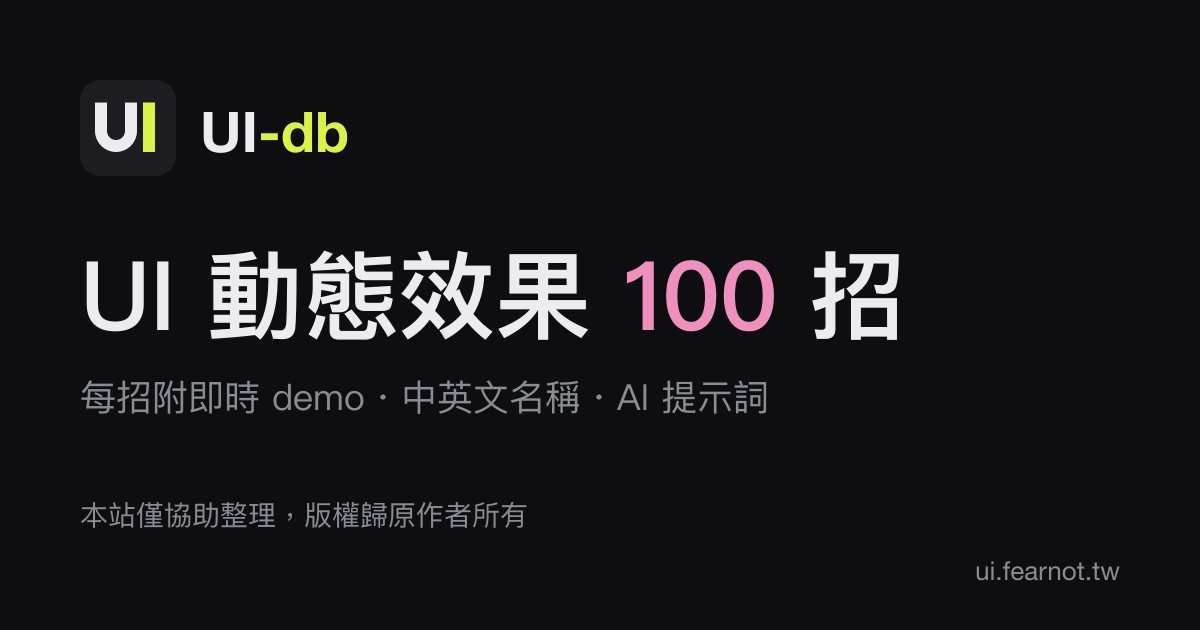
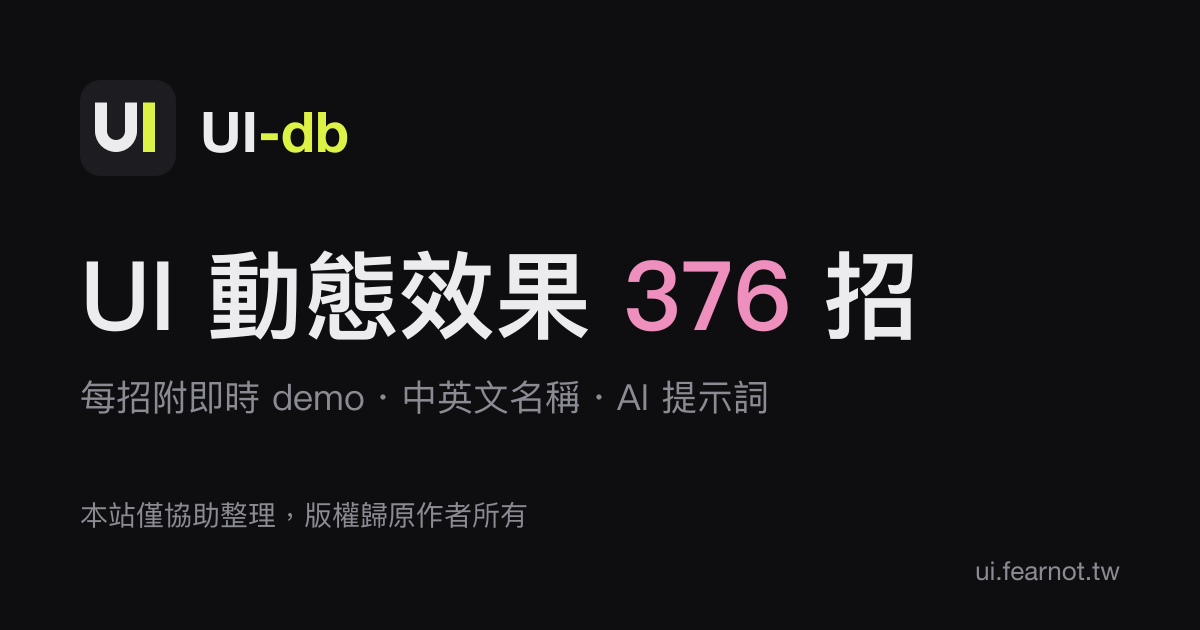
Browse by effect type instead of by source
Unified taxonomy (11 types, 7 timings) across all collections, merging
same-name effects into the self-made demo with a link to the Motion
Library version. Adds an optional Cloudflare Pages deploy script.

Changed region(s): [[0.5242, 0.3921, 0.7708, 0.5429]]

diff --git a/src/main.js b/src/main.js
@@ -1,5 +1,5 @@
 import './styles/app.css'
-import { items, collections, categories, collectionById } from './data/index.js'
+import { items, collections, types, timings, collectionById } from './data/index.js'
 import { mountDemo } from './demos/index.js'
 
 const FAV_KEY = 'ui-db:favs'
@@ -11,7 +11,7 @@ const saveFavs = () => {
 }
 
 const state = {
-  view: 'all', // 'all' | 'favs' | collection id
+  view: 'all', // 'all' | 'favs' | 'type:<id>' | collection id
   group: 'all',
   q: '',
   favs: loadFavs(),
@@ -38,7 +38,7 @@ $('#app').innerHTML = `
       <p>我的 UI 效果與工具資料庫</p>
     </div>
     <nav class="nav" id="nav"></nav>
-    <div class="side-foot">${items.length} 筆收藏 · ${collections.length} 個收藏集<br />本站僅協助整理，版權歸原作者所有</div>
+    <div class="side-foot">${items.length} 招 · ${types.length} 類 · ${collections.length} 個來源<br />本站僅協助整理，版權歸原作者所有</div>
   </aside>
   <main class="main">
     <header class="top">
@@ -77,50 +77,56 @@ const stopAll = () => {
 const itemById = Object.fromEntries(items.map((it) => [it.id, it]))
 
 // ── Render ───────────────────────────────────
+const typeOf = (view) => types.find((t) => `type:${t.id}` === view)
+
 function renderNav() {
-  const count = (fn) => items.filter(fn).length
   const navItem = (view, label, n, sub = '') =>
     `<button class="nav-item ${state.view === view ? 'on' : ''}" data-view="${view}"><span>${label}${sub ? `<small>${sub}</small>` : ''}</span><em>${n}</em></button>`
-  let html = navItem('all', '全部', items.length) + navItem('favs', '★ 我的最愛', state.favs.size)
-  for (const cat of categories) {
-    html += `<div class="nav-cat">${cat.label} <span>${cat.en}</span></div>`
-    for (const c of collections.filter((c) => c.category === cat.id))
-      html += navItem(c.id, c.title, count((it) => it.collection === c.id), c.author)
-  }
-  html += `<div class="nav-cat soon">更多分類 <span>coming soon</span></div>`
+  let html = navItem('all', '總覽', items.length) + navItem('favs', '★ 我的最愛', state.favs.size)
+  html += '<div class="nav-cat">類型 <span>Types</span></div>'
+  for (const t of types) html += navItem(`type:${t.id}`, t.label, items.filter((it) => it.type === t.id).length)
+  html += '<div class="nav-cat">來源 <span>Sources</span></div>'
+  for (const c of collections) html += navItem(c.id, c.title, items.filter((it) => it.collection === c.id).length)
   $('#nav').innerHTML = html
-}
-
-function currentCollection() {
-  return collectionById[state.view] || (state.view === 'all' && collections.length === 1 ? collections[0] : null)
 }
 
 function renderHeader() {
   const c = collectionById[state.view]
+  const type = typeOf(state.view)
   if (c) {
     $('#titleArea').innerHTML = `
       <div class="eyebrow">${esc(c.en)} · 收藏於 ${c.savedAt}</div>
       <h1>${esc(c.title)}</h1>
       <p class="note">${esc(c.note)} ${c.external ? `<a href="${c.source}" target="_blank" rel="noopener">來源 ${esc(c.author)} ${icons.link}</a>` : ''}</p>`
+  } else if (type) {
+    $('#titleArea').innerHTML = `<div class="eyebrow">${type.en}</div><h1>${type.label}</h1>
+      <p class="note">用時機篩選，找到這個情境能用的效果</p>`
   } else {
-    const label = state.view === 'favs' ? '我的最愛' : '全部收藏'
-    $('#titleArea').innerHTML = `<div class="eyebrow">UI-db · dashboard / database</div><h1>${label}</h1>
-      <p class="note">${state.view === 'favs' ? '點卡片上的 ★ 加入最愛' : '點任一張卡片看大圖與可直接貼給 AI 的提示詞'}</p>`
+    const favs = state.view === 'favs'
+    $('#titleArea').innerHTML = `<div class="eyebrow">UI-db · dashboard / database</div><h1>${favs ? '我的最愛' : '總覽'}</h1>
+      <p class="note">${favs ? '點卡片上的 ★ 加入最愛' : `${items.length} 招，分成 ${types.length} 類。點任一張卡片看大圖與提示詞`}</p>`
   }
-  const col = currentCollection()
-  const groups = col?.groups || []
-  $('#chips').innerHTML = groups.length
-    ? [`<button class="chip ${state.group === 'all' ? 'on' : ''}" data-group="all">全部</button>`,
-        ...groups.map((g) => `<button class="chip ${state.group === g.id ? 'on' : ''}" data-group="${g.id}" data-g="${g.id}"><b>${g.label}</b> ${g.zh}<small>${g.range}</small></button>`)].join('')
-    : ''
+  const chip = (id, html, attrs = '') => `<button class="chip ${state.group === id ? 'on' : ''}" data-group="${id}" ${attrs}>${html}</button>`
+  if (type) {
+    const inType = items.filter((it) => it.type === type.id)
+    $('#chips').innerHTML = chip('all', '全部') + timings
+      .map((t) => [t, inType.filter((it) => it.timing === t).length])
+      .filter(([, n]) => n)
+      .map(([t, n]) => chip(t, `${t}<small>${n}</small>`))
+      .join('')
+  } else {
+    $('#chips').innerHTML = c ? chip('all', '全部') + c.groups.map((g) => chip(g.id, `<b>${g.label}</b> ${g.zh}${g.range ? `<small>${g.range}</small>` : ''}`, `data-g="${g.id}"`)).join('') : ''
+  }
 }
 
 function filtered() {
   const q = state.q.trim().toLowerCase()
+  const type = typeOf(state.view)
   return items.filter((it) => {
     if (state.view === 'favs' && !state.favs.has(it.id)) return false
     if (collectionById[state.view] && it.collection !== state.view) return false
-    if (state.group !== 'all' && it.group !== state.group) return false
+    if (type && it.type !== type.id) return false
+    if (state.group !== 'all' && (type ? it.timing : it.group) !== state.group) return false
     if (!q) return true
     return [it.zh, it.en, it.desc, it.prompt, ...it.tags, pad(it.no)].join(' ').toLowerCase().includes(q)
   })
@@ -130,9 +136,7 @@ function renderGrid() {
   stopAll()
   const list = filtered()
   $('#empty').hidden = list.length > 0
-  $('#grid').innerHTML = list
-    .map(
-      (it) => `
+  const card = (it) => `
     <article class="card" data-id="${it.id}" data-g="${it.group}" tabindex="0">
       <div class="stage" data-id="${it.id}"></div>
       <span class="en-tag">${esc(it.en)}</span>
@@ -146,8 +150,13 @@ function renderGrid() {
         </div>
       </div>
     </article>`
-    )
-    .join('')
+  // 總覽：每類只放前 6 招，其餘點進該類看
+  $('#grid').innerHTML = state.view === 'all' && !state.q.trim()
+    ? types.map((t) => {
+        const inType = list.filter((it) => it.type === t.id)
+        return `<button class="sec" data-view="type:${t.id}"><b>${t.label}</b><small>${inType.length} 招</small><span>查看全部 →</span></button>${inType.slice(0, 6).map(card).join('')}`
+      }).join('')
+    : list.map(card).join('')
   document.querySelectorAll('#grid .stage').forEach((s) => io.observe(s))
 }
 
@@ -184,6 +193,7 @@ function openModal(id) {
           </div>
         </div>
         ${c.external ? `<a class="src" href="${it.url || c.source}" target="_blank" rel="noopener">來源：${esc(c.author)} ${icons.link}</a>` : ''}
+        ${it.related ? `<a class="src" href="${it.related}" target="_blank" rel="noopener">Motion Library 的版本與提示詞 ${icons.link}</a>` : ''}
       </div>
     </div>`
   m.hidden = false

diff --git a/src/data/collections.js b/src/data/collections.js
@@ -1,20 +1,9 @@
 // 收藏集（Collection）：每一個來源 / 主題一組。
-// 新增收藏集時，在這裡加一筆，再到 items/ 建立對應的項目檔。
-
-export const categories = [
-  { id: 'text-motion', label: '文字動態', en: 'Text Motion' },
-  { id: 'micro', label: '按鈕與微互動', en: 'Micro-interactions' },
-  { id: 'loading', label: '載入動畫', en: 'Loading' },
-  { id: 'background', label: '背景效果', en: 'Backgrounds' },
-  { id: 'scroll', label: '捲動效果', en: 'Scroll Effects' },
-  { id: 'motion-picks', label: '動態精選', en: 'Motion Picks' },
-  { id: 'motion-library', label: 'Motion Library', en: '331 招' },
-]
+// 新增收藏集時，在這裡加一筆，再到 items/ 建立對應的項目檔；每招的類型由 taxonomy.js 決定。
 
 export const collections = [
   {
     id: 'text-motion-40',
-    category: 'text-motion',
     title: '文字動態 40 招',
     en: 'Text Motion 40',
     author: '@ai_tjb',
@@ -32,7 +21,6 @@ export const collections = [
   },
   {
     id: 'micro-12',
-    category: 'micro',
     title: '按鈕與微互動 12 招',
     en: 'Micro-interactions 12',
     author: 'UI-db',
@@ -46,7 +34,6 @@ export const collections = [
   },
   {
     id: 'loading-12',
-    category: 'loading',
     title: '載入動畫 12 招',
     en: 'Loading 12',
     author: 'UI-db',
@@ -60,7 +47,6 @@ export const collections = [
   },
   {
     id: 'background-12',
-    category: 'background',
     title: '背景效果 12 招',
     en: 'Backgrounds 12',
     author: 'UI-db',
@@ -74,7 +60,6 @@ export const collections = [
   },
   {
     id: 'scroll-12',
-    category: 'scroll',
     title: '捲動效果 12 招',
     en: 'Scroll Effects 12',
     author: 'UI-db',
@@ -88,7 +73,6 @@ export const collections = [
   },
   {
     id: 'motion-picks',
-    category: 'motion-picks',
     title: '動態精選 12 招',
     en: 'Motion Picks 12',
     author: 'Motion Library（Hannah @kittenjamc）',
@@ -103,25 +87,24 @@ export const collections = [
   },
   {
     id: 'motion-library',
-    category: 'motion-library',
-    title: 'Motion Library 331 招',
+    title: 'Motion Library',
     en: 'Motion Library',
     author: 'Hannah @kittenjamc',
     external: true,
     noindex: true,
     source: 'https://kittenjam-motion-library.vercel.app',
     savedAt: '2026-11-02',
-    note: '原站的索引：預覽嵌入自原站，描述與 AI 提示詞請點來源到原站查看。版權歸原作者所有。',
+    note: '原站 331 招的索引，與 UI-db 同名的效果已合併。預覽嵌入自原站，描述與 AI 提示詞請到原站查看。版權歸原作者所有。',
     groups: [
-      { id: 'ml-text', label: 'TEXT', zh: '文字', range: '106' },
-      { id: 'ml-button', label: 'BUTTON', zh: '按鈕', range: '21' },
-      { id: 'ml-form', label: 'FORM', zh: '表單・控制項', range: '17' },
-      { id: 'ml-card', label: 'CARD', zh: '卡片・群組', range: '41' },
-      { id: 'ml-media', label: 'MEDIA', zh: '圖片・媒體', range: '22' },
-      { id: 'ml-svg', label: 'SVG', zh: '圖形・SVG', range: '35' },
-      { id: 'ml-bg', label: 'BG', zh: '背景・氛圍', range: '36' },
-      { id: 'ml-layout', label: 'LAYOUT', zh: '版面・頁面', range: '37' },
-      { id: 'ml-cursor', label: 'CURSOR', zh: '游標', range: '16' },
+      { id: 'ml-text', label: 'TEXT', zh: '文字' },
+      { id: 'ml-button', label: 'BUTTON', zh: '按鈕' },
+      { id: 'ml-form', label: 'FORM', zh: '表單・控制項' },
+      { id: 'ml-card', label: 'CARD', zh: '卡片・群組' },
+      { id: 'ml-media', label: 'MEDIA', zh: '圖片・媒體' },
+      { id: 'ml-svg', label: 'SVG', zh: '圖形・SVG' },
+      { id: 'ml-bg', label: 'BG', zh: '背景・氛圍' },
+      { id: 'ml-layout', label: 'LAYOUT', zh: '版面・頁面' },
+      { id: 'ml-cursor', label: 'CURSOR', zh: '游標' },
     ],
   },
 ]

diff --git a/src/data/taxonomy.js b/src/data/taxonomy.js
@@ -1,0 +1,46 @@
+// 統一分類：不管來源，每招都歸到一個類型與時機
+export const types = [
+  { id: 'text', label: '文字', en: 'Text' },
+  { id: 'button', label: '按鈕', en: 'Buttons' },
+  { id: 'form', label: '表單・控制項', en: 'Forms' },
+  { id: 'card', label: '卡片・群組', en: 'Cards' },
+  { id: 'media', label: '圖片・媒體', en: 'Media' },
+  { id: 'svg', label: '圖形・SVG', en: 'Graphics' },
+  { id: 'bg', label: '背景・氛圍', en: 'Backgrounds' },
+  { id: 'layout', label: '版面・頁面', en: 'Layout' },
+  { id: 'scroll', label: '捲動', en: 'Scroll' },
+  { id: 'cursor', label: '游標', en: 'Cursor' },
+  { id: 'loading', label: '載入', en: 'Loading' },
+]
+
+export const timings = ['進場', '退場', '切換', '循環待機', '懸停・點擊', '捲動觸發', '拖曳手勢']
+
+const SCROLL = '捲動觸發'
+const byGroup = {
+  impact: ['text', '進場'], flow: ['text', '循環待機'], depth: ['text', '循環待機'], switch: ['text', '切換'], style: ['text', '循環待機'],
+  button: ['button', '懸停・點擊'], feedback: ['form', '懸停・點擊'],
+  spinner: ['loading', '循環待機'], placeholder: ['loading', '循環待機'],
+  gradient: ['bg', '循環待機'], pattern: ['bg', '循環待機'],
+  trigger: ['scroll', SCROLL], linked: ['scroll', SCROLL],
+  'mp-visual': ['svg', '循環待機'], 'mp-ui': ['form', '懸停・點擊'],
+  'ml-text': ['text'], 'ml-button': ['button'], 'ml-form': ['form'], 'ml-card': ['card'], 'ml-media': ['media'],
+  'ml-svg': ['svg'], 'ml-bg': ['bg'], 'ml-layout': ['layout'], 'ml-cursor': ['cursor'],
+}
+const LOADERS = new Set(['geometricloader', 'toploadingbar'])
+const key = (en) => en.toLowerCase().replace(/[^a-z0-9]/g, '')
+
+// 同名效果只留一筆：優先自製 demo，並連到原站頁面
+export function organize(own, library) {
+  const libByKey = new Map(library.map((it) => [key(it.en), it]))
+  const merged = own.map((it) => {
+    const lib = libByKey.get(key(it.en))
+    const [type, timing] = byGroup[it.group]
+    const loading = type === 'loading'
+    return { ...it, type: lib && !loading ? byGroup[lib.group][0] : type, timing: lib ? lib.tags[0] : timing, related: lib?.url }
+  })
+  const ownKeys = new Set(own.map((it) => key(it.en)))
+  const rest = library
+    .filter((it) => !ownKeys.has(key(it.en)))
+    .map((it) => ({ ...it, type: LOADERS.has(key(it.en)) ? 'loading' : byGroup[it.group][0], timing: it.tags[0] }))
+  return [...merged, ...rest].map((it) => (it.timing === SCROLL ? { ...it, type: 'scroll' } : it))
+}

diff --git a/index.html b/index.html
@@ -4,7 +4,7 @@
     <meta charset="UTF-8" />
     <meta name="viewport" content="width=device-width, initial-scale=1.0" />
     <title>UI-db｜UI 效果整理・本站僅協助整理，版權歸原作者所有</title>
-    <meta name="description" content="UI-db 是收集 UI 效果與工具的資料庫：文字動態、按鈕與微互動、載入動畫、背景效果、捲動效果等 100 招，每招附即時 demo、中英文名稱與可直接貼給 AI 的提示詞。" />
+    <meta name="description" content="UI-db 是收集 UI 效果與工具的資料庫：文字動態、按鈕與微互動、載入動畫、背景效果、捲動效果等 376 招，每招附即時 demo、中英文名稱與可直接貼給 AI 的提示詞。" />
     <link rel="canonical" href="https://ui.fearnot.tw/" />
     <meta name="robots" content="index, follow" />
     <meta name="author" content="fearnot" />
@@ -13,14 +13,14 @@
     <meta property="og:locale" content="zh_TW" />
     <meta property="og:url" content="https://ui.fearnot.tw/" />
     <meta property="og:title" content="UI-db｜UI 效果與工具資料庫" />
-    <meta property="og:description" content="文字動態、微互動、載入、背景、捲動效果等 100 招，每招附即時 demo、中英文名稱與 AI 提示詞。" />
+    <meta property="og:description" content="文字動態、微互動、載入、背景、捲動效果等 376 招，每招附即時 demo、中英文名稱與 AI 提示詞。" />
     <meta property="og:image" content="https://ui.fearnot.tw/og-image.png" />
     <meta property="og:image:width" content="1200" />
     <meta property="og:image:height" content="630" />
-    <meta property="og:image:alt" content="UI-db — UI 動態效果 100 招" />
+    <meta property="og:image:alt" content="UI-db — UI 動態效果 376 招" />
     <meta name="twitter:card" content="summary_large_image" />
     <meta name="twitter:title" content="UI-db｜UI 效果與工具資料庫" />
-    <meta name="twitter:description" content="文字動態、微互動、載入、背景、捲動效果等 100 招，每招附即時 demo、中英文名稱與 AI 提示詞。" />
+    <meta name="twitter:description" content="文字動態、微互動、載入、背景、捲動效果等 376 招，每招附即時 demo、中英文名稱與 AI 提示詞。" />
     <meta name="twitter:image" content="https://ui.fearnot.tw/og-image.png" />
     <link rel="icon" href="./favicon.ico" sizes="48x48" />
     <link rel="icon" href="./favicon.svg" type="image/svg+xml" />

diff --git a/src/data/index.js b/src/data/index.js
@@ -1,4 +1,5 @@
-import { categories, collections } from './collections.js'
+import { collections } from './collections.js'
+import { organize } from './taxonomy.js'
 import textMotion40 from './items/text-motion-40.js'
 import micro12 from './items/micro-12.js'
 import loading12 from './items/loading-12.js'
@@ -7,9 +8,10 @@ import scroll12 from './items/scroll-12.js'
 import motionPicks from './items/motion-picks.js'
 import motionLibrary from './items/motion-library.js'
 
-// 新增收藏集：import 項目檔後加進這個陣列
-export const items = [...textMotion40, ...micro12, ...loading12, ...background12, ...scroll12, ...motionPicks, ...motionLibrary]
+// 新增收藏集：import 項目檔後加進第一個陣列
+export const items = organize([...textMotion40, ...micro12, ...loading12, ...background12, ...scroll12, ...motionPicks], motionLibrary)
 
-export { categories, collections }
+export { collections }
+export { types, timings } from './taxonomy.js'
 
 export const collectionById = Object.fromEntries(collections.map((c) => [c.id, c]))

diff --git a/src/styles/app.css b/src/styles/app.css
@@ -117,6 +117,12 @@ h1 { margin: 6px 0 6px; font-size: 32px; font-weight: 900; letter-spacing: .01em
   border-radius: 8px; padding: 5px 9px; color: var(--muted); white-space: nowrap; transition: all .15s;
 }
 .copy:hover { color: var(--ink); background: var(--g); border-color: var(--g); }
+.sec { grid-column: 1 / -1; display: flex; align-items: baseline; gap: 10px; margin-top: 18px; padding: 0 0 10px; border: 0; border-bottom: 1px solid var(--line); background: none; text-align: left; color: var(--text); }
+.sec:first-child { margin-top: 0; }
+.sec b { font-size: 20px; font-weight: 900; }
+.sec small { color: var(--muted); font-size: 13px; }
+.sec span { margin-left: auto; font-size: 13px; color: var(--muted); }
+.sec:hover span { color: var(--text); }
 .empty { color: var(--muted); text-align: center; padding: 60px 0; }
 
 /* ── Stage（demo 舞台） ── */

diff --git a/README.md b/README.md
@@ -14,6 +14,14 @@ npm install
 npm run dev
 ```
 
+## 部署
+
+推送到 `main` 會自動部署到 GitHub Pages（ui.fearnot.tw）。另外也可以手動部署一份到 Cloudflare Pages（需先 `npx wrangler login`）：
+
+```bash
+npm run deploy
+```
+
 ## 目前收藏
 
 | 收藏集 | 數量 | 來源 |
@@ -29,7 +37,7 @@ npm run dev
 ## 功能
 
 - 側欄切換收藏集、我的最愛（★ 存在瀏覽器 localStorage）
-- 組別篩選（IMPACT / FLOW / DEPTH / SWITCH / STYLE）與全文搜尋（中文名、英文名、標籤、描述），按 `/` 聚焦搜尋
+- 依類型瀏覽、依時機篩選（分類規則在 `src/data/taxonomy.js`，同名效果自動合併），也能依來源查看；全文搜尋（中文名、英文名、標籤、描述），按 `/` 聚焦搜尋
 - 點卡片開大圖，可「複製提示詞」或「複製名稱」；網址會帶 `#tm-12` 方便直接分享某一招
 - demo 只在捲到畫面內時播放，節省效能
 
@@ -50,7 +58,7 @@ src/
 
 ## 新增一個收藏集
 
-1. 在 `src/data/collections.js` 加一筆 collection（需要新分類就加到 `categories`）。
+1. 在 `src/data/collections.js` 加一筆 collection，並在 `src/data/taxonomy.js` 的 `byGroup` 指定各組別的類型與時機。
 2. 建立 `src/data/items/<id>.js`，用 `defineItems(前綴, 收藏集 id, [...])` 包起來，每筆填 `no / group / zh / en / desc / tags / prompt`（`id`、`demo` 會自動產生）。外部來源的收藏集加 `external: true` 才會顯示來源連結。
 3. 在 `src/data/index.js` import 並加進 `items`。
 4. 在 `src/demos/` 建資料夾寫 demo：`{ [demoKey]: { bg: 'dark' | 'accent' | 'light', run(el) { …; return cleanup } } }`，並在 `src/demos/index.js` 註冊；新組別的主色加到 `groupAccent` 和 `src/styles/app.css` 的 `[data-g]`。
